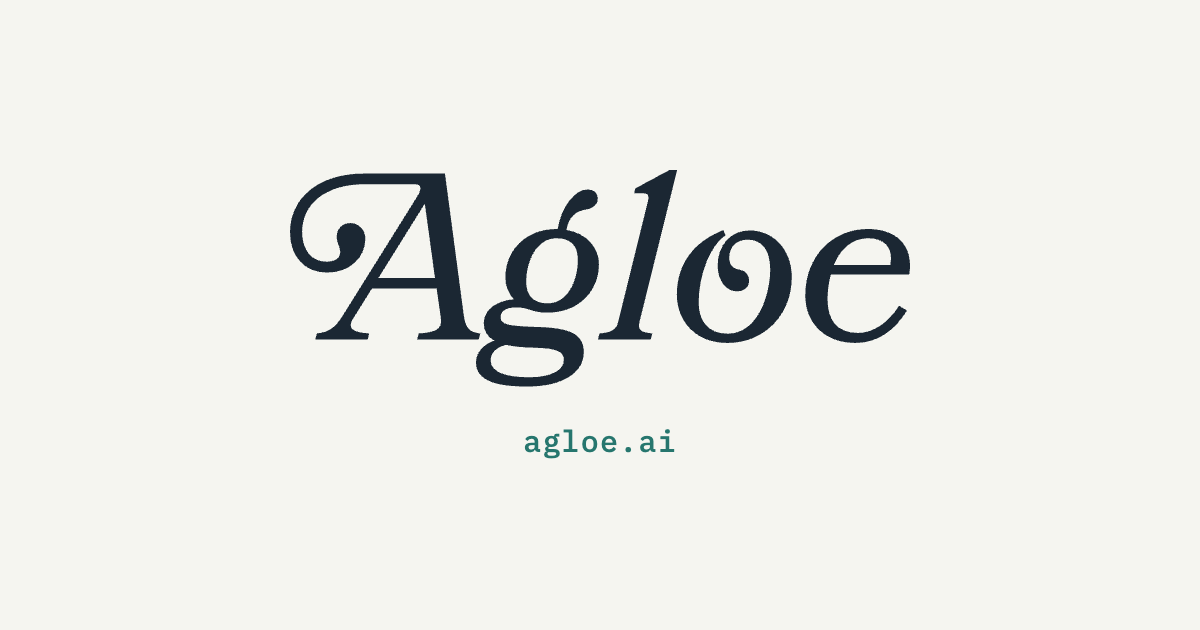
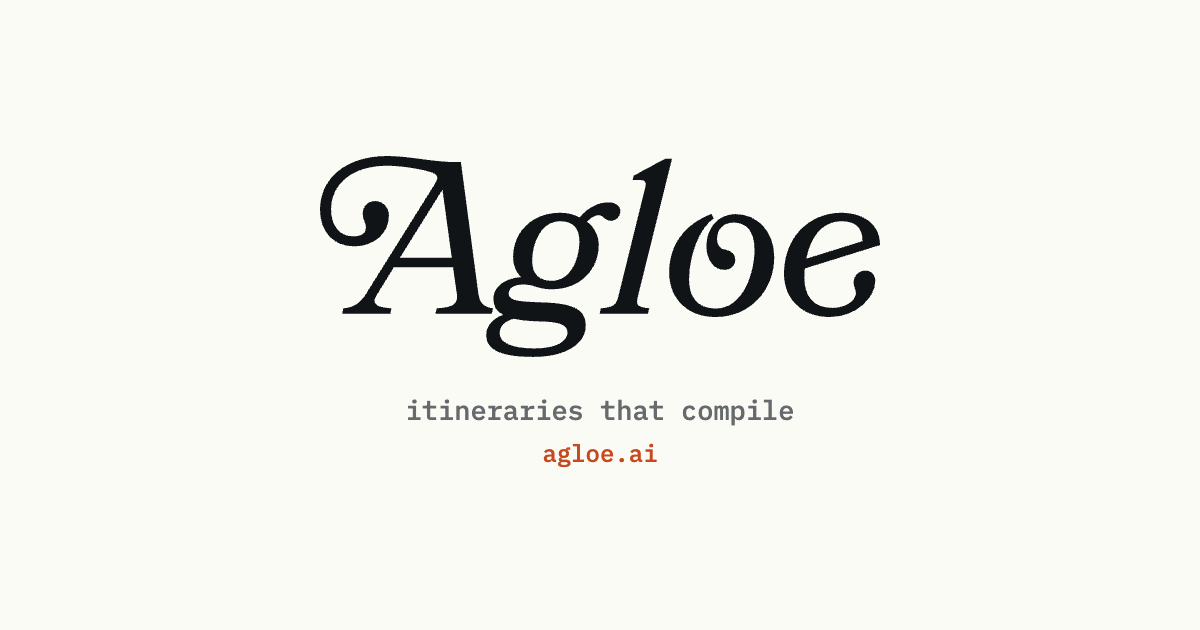
The home page takes Ian's wordmark and palette
The wordmark uses the letters and spacing Ian chose, and the page uses the
transit palette: near-white ground, near-black ink, one accent. Colour now
marks trouble only: the accent for what cannot work, brass for what nobody
knows yet. The foot of the page no longer names any typeface.

Changed region(s): [[0.2158, 0.2413, 0.7708, 0.754]]

diff --git a/pages/index.html b/pages/index.html
@@ -5,7 +5,7 @@
 <meta name="viewport" content="width=device-width, initial-scale=1">
 <title>Agloe: a standard format for trips, and a compiler that checks them</title>
 <meta name="description" content="Agloe is a standard format for trips, a compiler that checks them, and an optimizer that finds the best version. Open source.">
-<meta name="theme-color" content="#1B2733">
+<meta name="theme-color" content="#111417">
 <link rel="icon" href="favicon.svg">
 <link rel="canonical" href="https://agloe.ai/">
 <link rel="preload" href="fonts/bookmania-regular-italic-subset.woff2" as="font" type="font/woff2" crossorigin>
@@ -18,7 +18,7 @@
 <meta property="og:image" content="https://agloe.ai/img/social-preview.png">
 <meta property="og:image:width" content="1200">
 <meta property="og:image:height" content="630">
-<meta property="og:image:alt" content="The name Agloe in Bookmania italic, with the address agloe.ai">
+<meta property="og:image:alt" content="The name Agloe, the line itineraries that compile, and the address agloe.ai">
 <meta name="twitter:card" content="summary_large_image">
 <style>
 @font-face { font-family: "Bookmania"; src: url("fonts/bookmania-regular-italic-subset.woff2") format("woff2"); font-weight: 400; font-style: italic; font-display: swap; }
@@ -26,12 +26,13 @@
 @font-face { font-family: "IBM Plex Mono"; src: url("fonts/ibm-plex-mono-latin-400-normal.woff2") format("woff2"); font-weight: 400; font-display: swap; }
 @font-face { font-family: "IBM Plex Mono"; src: url("fonts/ibm-plex-mono-latin-500-normal.woff2") format("woff2"); font-weight: 500; font-display: swap; }
 
-/* The "chart" palette of the brand kit: ground, ink, a teal accent, and brass used sparingly. */
+/* The "transit" palette of the brand kit: ground, ink, one accent, and brass used sparingly.
+   Colour marks trouble: the accent for what cannot work, brass for what nobody knows yet. */
 :root {
-  --ground: #F5F5F0; --surface: #FAF9F4; --tile: #EDEEE8;
-  --ink: #1B2733; --ink2: #4B5A66; --muted: #5E6E76; --line: #D8DAD2;
-  --teal: #26766E; --brass: #B9892F; --stop: #B3261E;
-  --night: #10161C; --night-ink: #E8E6DD; --night-dim: #93A3A8; --night-teal: #5FB3A8; --night-brass: #D4A94E; --night-stop: #F0857A;
+  --ground: #FBFBF6; --surface: #FFFFFF; --tile: #F1F1EC;
+  --ink: #111417; --ink2: #50545A; --muted: #6C7074; --line: #D9D9D3; --travel: #5B6169;
+  --accent: #C7491F; --brass: #9A8330; --brass-ink: #6E5D1C; --stop: #C7491F;
+  --night: #111417; --night-ink: #EDEDE7; --night-dim: #979B9E; --night-accent: #F0875B; --night-brass: #CDBB6A; --night-stop: #F0875B;
   --display: "Bookmania", "Bookman Old Style", "URW Bookman", Georgia, serif;
   --text: "Inter", system-ui, "Helvetica Neue", Arial, sans-serif;
   --mono: "IBM Plex Mono", ui-monospace, "SF Mono", Menlo, monospace;
@@ -45,9 +46,9 @@ h1 { font-size: clamp(2.7rem, 5.4vw, 4.1rem); line-height: 1.04; letter-spacing:
 h2 { font-size: clamp(2rem, 3.7vw, 2.9rem); line-height: 1.08; letter-spacing: -0.008em; }
 h3 { font-size: 1.5rem; line-height: 1.2; }
 p, ul, ol { margin: 0; }
-a { color: inherit; text-decoration-color: var(--teal); text-decoration-thickness: 1.5px; text-underline-offset: 3px; }
-a:hover { color: var(--teal); }
-:focus-visible { outline: 2px solid var(--teal); outline-offset: 3px; }
+a { color: inherit; text-decoration-color: var(--accent); text-decoration-thickness: 1.5px; text-underline-offset: 3px; }
+a:hover { color: var(--accent); }
+:focus-visible { outline: 2px solid var(--accent); outline-offset: 3px; }
 code { font-family: var(--mono); font-size: 0.9em; }
 .skip { position: absolute; left: 16px; top: -80px; z-index: 10; padding: 10px 16px; background: var(--ink); color: var(--ground); font-weight: 600; text-decoration: none; }
 .skip:focus { top: 12px; }
@@ -57,9 +58,9 @@ code { font-family: var(--mono); font-size: 0.9em; }
 .stack { display: grid; gap: 18px; align-content: start; }
 .lead { font-size: 1.2rem; line-height: 1.55; color: var(--ink2); max-width: 34em; }
 .small { font-size: 0.93rem; color: var(--muted); }
-.label { font: 500 0.72rem/1.4 var(--mono); letter-spacing: 0.14em; text-transform: uppercase; color: var(--teal); }
+.label { font: 500 0.72rem/1.4 var(--mono); letter-spacing: 0.14em; text-transform: uppercase; color: var(--accent); }
 .split { display: grid; grid-template-columns: minmax(0, 0.9fr) minmax(0, 1.1fr); gap: clamp(32px, 5vw, 64px); align-items: center; }
-.card { background: var(--surface); border: 1px solid var(--line); border-radius: 3px; box-shadow: 0 26px 54px -30px rgba(27, 39, 51, 0.38); }
+.card { background: var(--surface); border: 1px solid var(--line); border-radius: 3px; box-shadow: 0 26px 54px -30px rgba(17, 20, 23, 0.32); }
 
 /* Header */
 .top { border-bottom: 1px solid var(--line); }
@@ -70,7 +71,7 @@ code { font-family: var(--mono); font-size: 0.9em; }
 .brand .word { height: 34px; width: auto; display: block; overflow: visible; }
 .links { display: flex; gap: 6px 26px; flex-wrap: wrap; font-size: 0.98rem; }
 .links a { text-decoration: none; }
-.links a:hover { color: var(--teal); }
+.links a:hover { color: var(--accent); }
 
 /* Opening */
 .hero { padding-block: clamp(44px, 6vw, 84px) clamp(52px, 7vw, 92px); }
@@ -78,7 +79,7 @@ code { font-family: var(--mono); font-size: 0.9em; }
 .hero-text { display: grid; gap: 22px; }
 .actions { display: flex; gap: 14px; flex-wrap: wrap; margin-top: 4px; }
 .button { display: inline-block; padding: 13px 22px; border: 1px solid var(--ink); border-radius: 2px; background: var(--ink); color: var(--ground); font-weight: 600; font-size: 1rem; text-decoration: none; }
-.button:hover { background: var(--teal); border-color: var(--teal); color: var(--ground); }
+.button:hover { background: var(--accent); border-color: var(--accent); color: var(--ground); }
 .button.quiet { background: transparent; color: var(--ink); }
 .button.quiet:hover { background: var(--tile); border-color: var(--ink); color: var(--ink); }
 
@@ -102,11 +103,11 @@ main:has(input[value="works-but-risky"]:checked) { --visit-time: 840; --visit-le
   font: 500 0.7rem/1 var(--mono); letter-spacing: 0.04em; color: var(--ground);
   transition: left 0.75s var(--ease), width 0.75s var(--ease), opacity 0.4s ease; }
 .bar.visit { --from: var(--visit-time); --len: var(--visit-length); top: 10px; background: var(--ink); }
-.bar.train { --from: var(--leave); --len: var(--train-length); top: 52px; background: var(--teal); }
+.bar.train { --from: var(--leave); --len: var(--train-length); top: 52px; background: var(--travel); }
 .bar.slow { --from: var(--arrive); --len: calc(var(--train-length-longest) - var(--train-length)); top: 52px; padding: 0;
   background: repeating-linear-gradient(135deg, var(--brass) 0 4px, transparent 4px 8px); border: 1px solid var(--brass); border-left: 0; border-radius: 0 2px 2px 0; }
 .bar.late { --from: var(--close); top: 52px; padding: 0; width: max(0%, calc((var(--arrive) - var(--close)) / var(--span) * 100%));
-  background: repeating-linear-gradient(135deg, var(--stop) 0 4px, #e9b9b3 4px 8px); border-radius: 0 2px 2px 0; }
+  background: repeating-linear-gradient(135deg, var(--stop) 0 4px, #F1C9BA 4px 8px); border-radius: 0 2px 2px 0; }
 .bar.cab { --from: var(--leave); --len: calc(var(--close) - var(--leave)); top: 94px; opacity: 0; background: transparent; color: var(--brass);
   border: 1.5px dashed var(--brass); }
 .bar.flight { --from: var(--flight-time); --len: calc(var(--t0) + var(--span) - var(--flight-time)); top: 94px; background: var(--ink);
@@ -126,34 +127,34 @@ main:has(input[value="depends-on-the-cab"]:checked) .day { height: 218px; }
 .answer p:first-child { padding-left: 20px; position: relative; }
 .answer p:first-child::before { content: ""; position: absolute; left: 0; top: 0.3em; width: 11px; height: 11px; border-radius: 50%; background: var(--dot); }
 .answer p + p { padding-left: 20px; color: var(--ink2); font-weight: 400; }
-.answer.feasible { --dot: var(--teal); color: var(--teal); }
+.answer.feasible { --dot: var(--ink); color: var(--ink); }
 .answer.infeasible { --dot: var(--stop); color: var(--stop); }
-.answer.undetermined { --dot: var(--brass); color: #8a6417; }
-.answer.risky { --dot: var(--teal); color: var(--teal); }
-.answer.risky p + p { color: #8a6417; }
+.answer.undetermined { --dot: var(--brass); color: var(--brass-ink); }
+.answer.risky { --dot: var(--ink); color: var(--ink); }
+.answer.risky p + p { color: var(--brass-ink); }
 
 .versions { border: 0; margin: 0; padding: 0; min-width: 0; display: grid; gap: 6px; }
 .versions legend { padding: 0; margin-bottom: 10px; }
 .versions label { display: grid; grid-template-columns: auto minmax(0, 1fr); gap: 11px; padding: 9px 12px; border: 1px solid var(--line); border-radius: 2px; font-size: 0.93rem; line-height: 1.4; cursor: pointer; background: var(--ground); }
 .versions label:hover { border-color: var(--muted); }
-.versions input { width: 1em; height: 1em; margin: 0.2em 0 0; accent-color: var(--teal); }
-.versions label:has(input:checked) { border-color: var(--teal); box-shadow: inset 3px 0 0 var(--teal); background: var(--surface); }
-.versions label:has(input:focus-visible) { outline: 2px solid var(--teal); outline-offset: 2px; }
+.versions input { width: 1em; height: 1em; margin: 0.2em 0 0; accent-color: var(--accent); }
+.versions label:has(input:checked) { border-color: var(--accent); box-shadow: inset 3px 0 0 var(--accent); background: var(--surface); }
+.versions label:has(input:focus-visible) { outline: 2px solid var(--accent); outline-offset: 2px; }
 .versions input:focus-visible { outline: none; }
 
 /* The report, as the terminal prints it */
-.terminal { background: var(--night); color: var(--night-ink); border-radius: 3px; box-shadow: 0 26px 54px -30px rgba(27, 39, 51, 0.6); padding: clamp(18px, 2.4vw, 26px); font: 0.8rem/1.7 var(--mono); }
+.terminal { background: var(--night); color: var(--night-ink); border-radius: 3px; box-shadow: 0 26px 54px -30px rgba(17, 20, 23, 0.55); padding: clamp(18px, 2.4vw, 26px); font: 0.8rem/1.7 var(--mono); }
 .reports { display: grid; gap: 28px; }
 .command { color: var(--night-dim); margin-bottom: 12px; overflow-wrap: anywhere; }
 .report pre { margin: 0; font: inherit; white-space: pre-wrap; overflow-wrap: break-word; }
 .report pre::first-line { font-weight: 500; }
-.report.feasible pre::first-line, .report.risky pre::first-line { color: var(--night-teal); }
+.report.feasible pre::first-line, .report.risky pre::first-line { color: #FFFFFF; }
 .report.infeasible pre::first-line { color: var(--night-stop); }
 .report.undetermined pre::first-line { color: var(--night-brass); }
 
 /* Where the browser can tell which version is chosen, show only that version's answer and report. */
 @supports selector(:has(*)) {
-  .reports { display: block; height: 540px; overflow-y: auto; scrollbar-color: #3a4650 transparent; }
+  .reports { display: block; height: 540px; overflow-y: auto; scrollbar-color: #3a3e43 transparent; }
   .report { display: none; }
   main:has(input[value="works"]:checked) .answer[data-version="works"],
   main:has(input[value="cannot-work"]:checked) .answer[data-version="cannot-work"],
@@ -176,7 +177,7 @@ main:has(input[value="depends-on-the-cab"]:checked) .day { height: 218px; }
 .key { list-style: none; padding: 0; display: grid; gap: 16px; }
 .key li { padding-left: 26px; position: relative; }
 .key li::before { content: ""; position: absolute; left: 0; top: 0.42em; width: 12px; height: 12px; border-radius: 50%; background: var(--dot); }
-.key .feasible { --dot: var(--teal); }
+.key .feasible { --dot: var(--ink); }
 .key .infeasible { --dot: var(--stop); }
 .key .undetermined { --dot: var(--brass); }
 
@@ -188,7 +189,7 @@ main:has(input[value="depends-on-the-cab"]:checked) .day { height: 218px; }
 .part { display: grid; gap: 14px; align-content: start; }
 .part svg { width: 54px; height: 54px; }
 .part svg * { fill: none; stroke: var(--ink); stroke-width: 2; stroke-linecap: round; stroke-linejoin: round; }
-.part svg .t { stroke: var(--teal); }
+.part svg .t { stroke: var(--accent); }
 .part svg .b { stroke: var(--brass); }
 .part strong { display: block; font: italic 400 1.6rem/1.15 var(--display); margin-bottom: 8px; }
 .after { margin-top: 44px; max-width: 46em; display: grid; gap: 14px; color: var(--ink2); }
@@ -203,21 +204,21 @@ main:has(input[value="depends-on-the-cab"]:checked) .day { height: 218px; }
 
 /* The name */
 .night { background: var(--ink); color: var(--ground); }
-.night .label { color: var(--night-teal); }
-.night a:hover { color: var(--night-teal); }
-.night p { font-size: 1.22rem; line-height: 1.55; color: #d9dcd6; }
+.night .label { color: var(--night-accent); }
+.night a:hover { color: var(--night-accent); }
+.night p { font-size: 1.22rem; line-height: 1.55; color: #DDDDD7; }
 .map { display: block; width: 100%; height: auto; background: var(--ground); border-radius: 3px; }
 .map .grid { stroke: var(--line); stroke-width: 1; fill: none; }
-.map .river { fill: none; stroke: #9cc7c1; stroke-width: 7; stroke-linecap: round; }
+.map .river { fill: none; stroke: #C3CBCF; stroke-width: 7; stroke-linecap: round; }
 .map .highway { fill: none; stroke: var(--ink); stroke-width: 3.2; }
 .map .road { fill: none; stroke: var(--ink); stroke-width: 2; }
 .map .track { fill: none; stroke: var(--ink); stroke-width: 1.5; stroke-dasharray: 7 5; }
 .map .town { fill: var(--ink); }
-.map .not-there { fill: var(--ground); stroke: var(--brass); stroke-width: 4; stroke-dasharray: 6.6 4.4; }
+.map .not-there { fill: var(--ground); stroke: var(--accent); stroke-width: 4.4; stroke-linecap: round; stroke-dasharray: 0.01 7.33; }
 .map text { fill: var(--ink); }
 .map .place { font: italic 400 23px var(--display); }
 .map .place.big { font-size: 31px; }
-.map .water-name { font: italic 400 19px var(--display); fill: var(--teal); letter-spacing: 0.12em; }
+.map .water-name { font: italic 400 19px var(--display); fill: #65747C; letter-spacing: 0.12em; }
 .map .note { font: 11px var(--mono); letter-spacing: 0.08em; fill: var(--muted); text-transform: uppercase; }
 
 /* Motion. The day redraws when the version changes. The map draws itself once, when it is first seen. */
@@ -261,8 +262,8 @@ footer .wrap { display: grid; grid-template-columns: repeat(3, minmax(0, 1fr)); 
 <header class="top">
   <div class="wrap">
     <a class="brand" href="./" aria-label="Agloe home">
-      <svg class="mark" viewBox="0 0 64 64" aria-hidden="true"><rect width="64" height="64" rx="14" fill="#1B2733"/><path d="M41.7 39.7H64M24.3 57.1V64M6.9 39.7H0M24.3 22.3V0" stroke="#F5F5F0" stroke-width="3.5"/><circle cx="24.3" cy="39.7" r="12.2" fill="none" stroke="#B9892F" stroke-width="4.2" stroke-dasharray="5.54 4.04" stroke-dashoffset="7.56"/></svg>
-      <svg class="word" viewBox="58 -715 2617 914" role="img" aria-label="Agloe"><path fill="currentColor" transform="scale(1,-1)" d="M595 0H855L861 25C815 30 798 51 792 98L712 700H372C169 700 58 589 58 453C58 347 122 282 215 282C309 282 376 345 376 424C376 460 351 491 312 491C280 491 255 468 255 432C255 408 270 391 270 370C270 342 247 328 211 328C148 328 109 379 109 453C109 574 211 655 372 655H581C611 655 619 641 593 600L276 93C249 51 222 30 171 25L165 0H386L392 25C316 30 301 49 324 87L404 215H677L695 87C700 45 677 30 601 25ZM431 259 627 573 670 259ZM967 261C967 226 979 194 1003 169C936 165 876 128 876 70C876 37 889 11 921 -5C877 -21 843 -52 843 -98C843 -176 932 -199 1061 -199C1207 -199 1298 -141 1298 -55C1298 13 1256 47 1113 52C977 56 947 62 947 94C947 116 965 135 1012 135C1072 135 1073 113 1145 113C1277 113 1362 204 1362 318C1362 387 1310 448 1225 462C1234 520 1269 542 1305 548C1336 552 1357 568 1357 595C1357 618 1341 633 1313 633C1262 633 1202 560 1188 466H1184C1052 466 967 375 967 261ZM1055 243C1055 327 1097 427 1183 427C1239 427 1273 400 1273 335C1273 252 1232 152 1146 152C1090 152 1055 180 1055 243ZM1087 -35C1186 -37 1214 -52 1214 -87C1214 -123 1174 -160 1066 -160C968 -160 905 -137 905 -90C905 -59 923 -36 970 -23C1000 -30 1039 -34 1087 -35ZM1358 0H1581L1587 25C1534 30 1525 41 1534 77L1692 715H1660L1515 637L1511 617H1547C1569 617 1575 608 1569 584L1444 77C1435 41 1420 30 1364 25ZM1897 440 1887 461C1791 425 1691 342 1691 190C1691 72 1774 -15 1904 -15C2065 -15 2176 109 2176 262C2176 383 2094 460 1998 460C1920 460 1863 399 1863 312C1863 248 1900 201 1946 203C1978 203 1996 224 1996 249C1996 272 1982 290 1953 295C1929 298 1912 313 1912 345C1912 386 1938 421 1989 421C2046 421 2085 383 2085 295C2085 194 2035 24 1906 24C1821 24 1783 78 1783 157C1783 272 1832 398 1897 440ZM2341 274H2672C2692 408 2606 466 2497 466C2356 466 2233 359 2233 185C2233 73 2311 -15 2445 -15C2536 -15 2610 36 2662 122L2629 142C2584 70 2519 27 2456 27C2363 27 2327 87 2327 167C2327 198 2330 236 2341 274ZM2500 427C2564 427 2607 390 2592 314H2354C2378 375 2424 427 2500 427Z"/></svg>
+      <svg class="mark" viewBox="0 0 64 64" aria-hidden="true"><rect width="64" height="64" rx="14" fill="#C7491F"/><path d="M37.7 39.7H64M24.3 53.1V64M10.9 39.7H0M24.3 26.3V0" stroke="#FBFBF6" stroke-width="2.6"/><circle cx="24.3" cy="39.7" r="9.6" fill="none" stroke="#FBFBF6" stroke-width="3.1" stroke-linecap="round" stroke-dasharray="0.01 5.02" stroke-dashoffset="2.51"/></svg>
+      <svg class="word" viewBox="64 -728 2584 927" role="img" aria-label="Agloe"><path fill="currentColor" transform="scale(1,-1)" d="M594 599 277 93C252 51 223 30 172 25L166 0H388L394 25C318 30 301 49 326 87L405 215H678L696 87C701 45 679 30 603 25L596 0H856L863 25C817 30 800 51 794 98L714 700H688C641 700 592 706 544 712C489 720 424 728 375 728C175 728 64 617 64 481C64 376 128 311 222 311C315 311 382 373 382 452C382 488 357 520 318 520C286 520 261 496 261 461C261 436 276 419 276 398C276 371 253 357 217 357C154 357 115 407 115 481C115 602 217 683 372 683C431 683 514 671 560 658C596 648 620 640 594 599ZM433 259 629 573 672 259ZM1049 -199C1195 -199 1290 -141 1290 -55C1290 13 1244 47 1101 52C965 56 935 62 935 95C935 116 956 135 1001 135C1060 135 1063 113 1133 113C1265 113 1350 204 1350 318C1350 352 1336 395 1296 425C1309 439 1331 455 1349 455C1373 455 1377 429 1405 429C1434 429 1450 452 1450 474C1450 499 1426 514 1395 514C1355 514 1304 496 1261 444C1241 457 1211 466 1172 466C1040 466 955 375 955 261C955 226 967 194 991 169C924 165 864 128 864 70C864 37 877 11 909 -5C865 -21 831 -52 831 -98C831 -176 920 -199 1049 -199ZM1134 152C1078 152 1043 180 1043 243C1043 327 1085 427 1171 427C1227 427 1261 400 1261 335C1261 252 1220 152 1134 152ZM1054 -160C956 -160 893 -137 893 -90C893 -59 911 -36 958 -23C989 -30 1027 -34 1075 -35C1174 -37 1206 -52 1206 -87C1206 -123 1162 -160 1054 -160ZM1354 0H1577L1583 25C1530 30 1521 41 1530 77L1688 715H1656L1511 637L1507 617H1543C1565 617 1571 608 1565 584L1440 77C1431 41 1416 30 1360 25ZM1881 440 1871 461C1775 425 1675 342 1675 190C1675 72 1758 -15 1888 -15C2049 -15 2160 109 2160 262C2160 383 2078 460 1982 460C1904 460 1847 399 1847 312C1847 248 1884 201 1930 203C1962 203 1980 224 1980 249C1980 272 1966 290 1937 295C1913 298 1896 313 1896 345C1896 386 1922 421 1973 421C2030 421 2069 383 2069 295C2069 194 2019 24 1890 24C1805 24 1767 78 1767 157C1767 272 1816 398 1881 440ZM2416 -15C2539 -15 2626 76 2626 151C2626 174 2614 199 2580 199C2554 199 2526 178 2526 143C2526 125 2537 113 2537 94C2537 66 2496 27 2428 27C2335 27 2299 87 2299 167C2299 180 2299 192 2301 209L2648 317C2648 423 2558 466 2469 466C2328 466 2205 359 2205 185C2205 73 2283 -15 2416 -15ZM2472 427C2530 427 2569 400 2567 335L2308 254C2325 339 2371 427 2472 427Z"/></svg>
     </a>
     <nav class="links" aria-label="Main">
       <a href="https://github.com/ian-c-leonard/agloe/blob/main/spec/rules.md">Rules</a>
@@ -560,8 +561,8 @@ uv run agloe check examples/a-must/cannot-work.json</pre>
 
 <footer>
   <div class="wrap">
-    <span>Agloe is open source under the <a href="https://github.com/ian-c-leonard/agloe/blob/main/LICENSE">Apache License 2.0</a>. The trips in the examples are fictional.</span>
-    <span>The name is set in Bookmania by Mark Simonson, <a href="fonts/bookmania-NOTICE.txt">used with his permission</a>. The text is in <a href="fonts/inter-OFL.txt">Inter</a> and <a href="fonts/ibm-plex-mono-OFL.txt">IBM Plex Mono</a>.</span>
+    <span>Agloe is open source under the <a href="https://github.com/ian-c-leonard/agloe/blob/main/LICENSE">Apache License 2.0</a>.</span>
+    <span>The trips in the examples are fictional.</span>
     <a href="https://github.com/ian-c-leonard/agloe">github.com/ian-c-leonard/agloe</a>
   </div>
 </footer>
